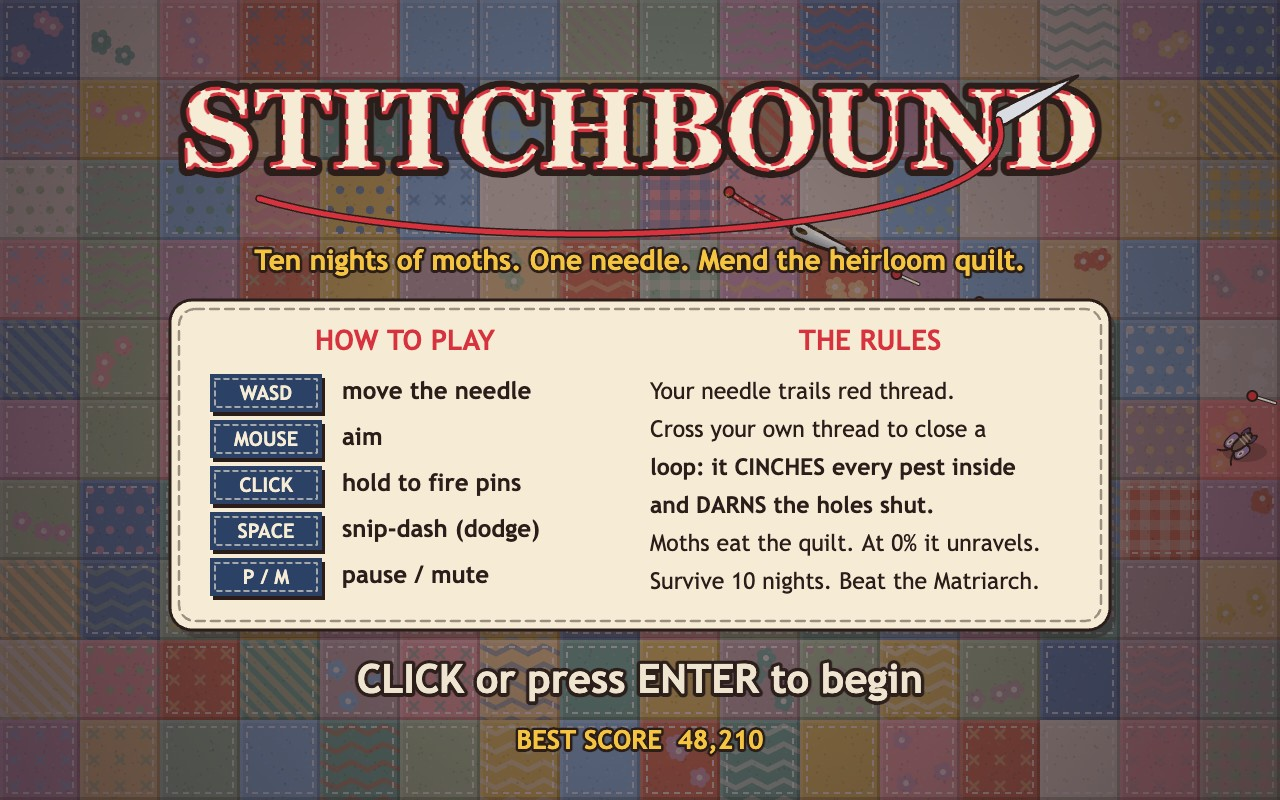
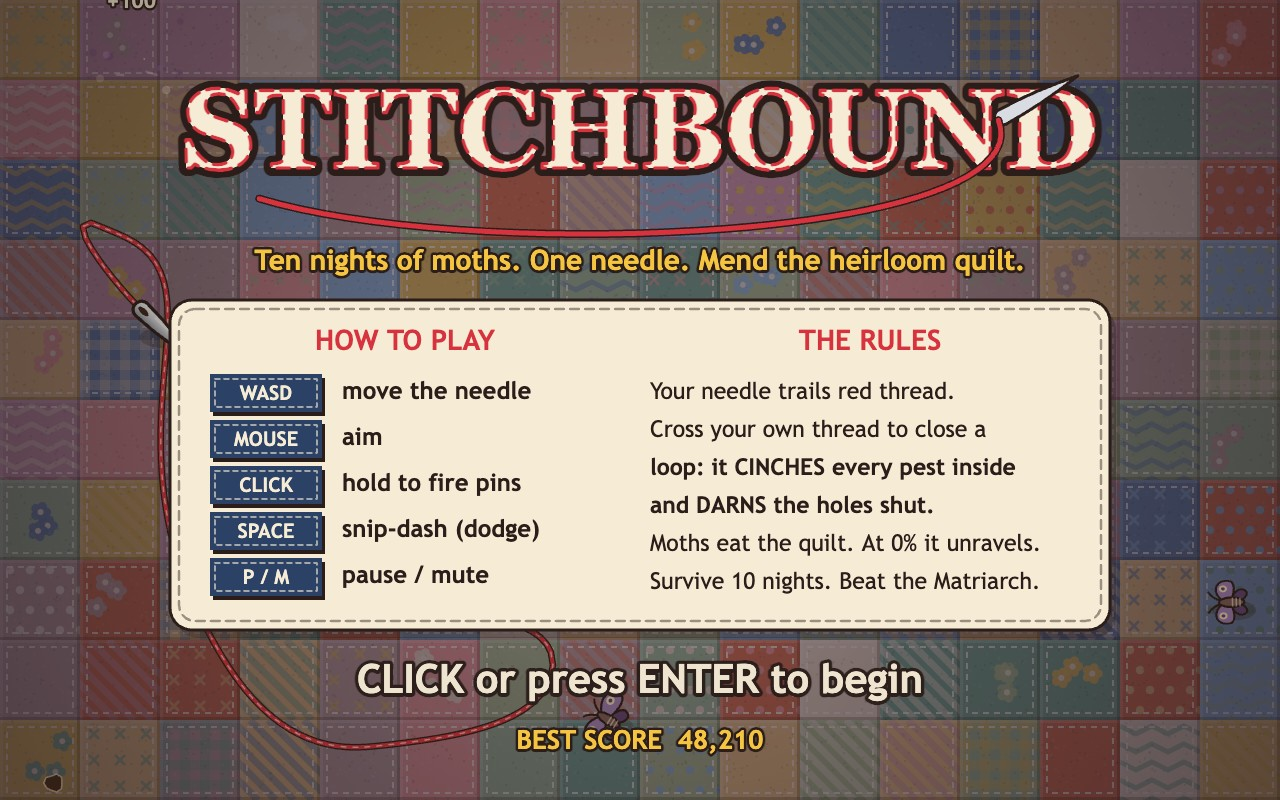
Longer thread and tighter guard ring for loops around the Matriarch; stacked score text; seed 4 screenshots

diff --git a/game/src/shots.js b/game/src/shots.js
@@ -53,8 +53,9 @@ function playToBestFrame(seed, score) {
 
 /** How much is going on: a fresh cinch, flying shots, creatures and particles. */
 function spectacle(run) {
-  const fresh = run.cinches.some((c) => c.age > 0.04 && c.age < 0.16);
-  return (fresh ? 60 : 0) + Math.min(60, run.shots.length) * 0.8 + run.enemies.length * 2 + Math.min(300, run.fx.particles.length) * 0.05 + run.pins.length * 0.3;
+  const fresh = run.cinches.filter((c) => c.age > 0.04 && c.age < 0.16);
+  const caught = fresh.reduce((n, c) => n + c.caught, 0);
+  return (fresh.length > 0 ? 60 + caught * 18 : 0) +Math.min(60, run.shots.length) * 0.8 + run.enemies.length * 2 + Math.min(300, run.fx.particles.length) * 0.05 + run.pins.length * 0.3;
 }
 
 function bossOnScreen(run, kind) {
@@ -80,7 +81,7 @@ export function stageShot(name, seed) {
         if (r.wave !== 10 || !bossOnScreen(r, 'matriarch')) return -1;
         const boss = r.enemies.find((e) => e.kind === 'matriarch');
         const p = r.player;
-        if (boss.flash > 0.5 || r.fx.flash > 0.02 || r.fx.floaters.length > 3) return -1;
+        if (boss.flash > 0.5 || r.fx.flash > 0.02 || r.fx.floaters.length > 7) return -1;
         if (p.x < 120 || p.x > 1160 || p.y < 190 || p.y > 660 || p.invuln > 0) return -1;
         const apart = Math.hypot(p.x - boss.x, p.y - boss.y);
         const offCentre = Math.hypot(boss.x - 640, boss.y - 380);

diff --git a/game/src/effects.js b/game/src/effects.js
@@ -36,7 +36,12 @@ export function ring(fx, x, y, color, radius = 60, life = 0.4, width = 6) {
 }
 
 export function floatText(fx, x, y, text, color = PALETTE.cream, size = 26) {
-  fx.floaters.push({ x, y, text, color, size, age: 0, life: 1.1 });
+  // Stack above any fresh text nearby so two numbers never run together.
+  let top = y;
+  for (const f of fx.floaters) {
+    if (f.age < 0.5 && Math.abs(f.x - x) < 90 && Math.abs(f.y - top) < size) top = f.y - size;
+  }
+  fx.floaters.push({ x, y: top, text, color, size, age: 0, life: 1.1 });
 }
 
 export function addShake(fx, amount) {

diff --git a/game/src/autopilot.js b/game/src/autopilot.js
@@ -18,7 +18,7 @@ function pickFocus(run) {
   const live = run.enemies.filter((e) => !e.dead && e.kind !== 'wyrmSegment' && e.x > 0 && e.y > 0 && e.x < VIEW.width && e.y < VIEW.height);
   if (live.length === 0) return null;
   const boss = live.find((e) => e.kind === 'matriarch' && !e.entering);
-  if (boss) return { x: boss.x, y: boss.y, radius: boss.r + 125 };
+  if (boss) return { x: boss.x, y: boss.y, radius: boss.r + 100 };
   const eaters = live.filter((e) => e.state === 'eat');
   const pool = eaters.length > 0 ? eaters : live;
   const p = run.player;

diff --git a/game/src/game.js b/game/src/game.js
@@ -99,7 +99,7 @@ export function cinchLoop(run, polygon) {
   run.stats.loops += 1;
   run.stats.mended += mended;
   run.stats.biggestLoop = Math.max(run.stats.biggestLoop, caught);
-  run.cinches.push({ polygon, centre, age: 0, life: 0.38 });
+  run.cinches.push({ polygon, centre, caught, age: 0, life: 0.38 });
   for (let i = 0; i < polygon.length; i += 3) {
     burst(fx, polygon[i].x, polygon[i].y, { count: 1, colors: [PALETTE.gold, PALETTE.threadLight], speed: 60, size: 6, kind: 'spark', life: 0.5 });
   }

diff --git a/game/src/enemies.js b/game/src/enemies.js
@@ -166,8 +166,8 @@ function updateGuardMoth(run, enemy, dt) {
     return;
   }
   enemy.orbit += dt * 1.3;
-  const tx = boss.x + Math.cos(enemy.orbit) * 150;
-  const ty = boss.y + Math.sin(enemy.orbit) * 115;
+  const tx = boss.x + Math.cos(enemy.orbit) * 132;
+  const ty = boss.y + Math.sin(enemy.orbit) * 100;
   enemy.x += (tx - enemy.x) * Math.min(1, dt * 4);
   enemy.y += (ty - enemy.y) * Math.min(1, dt * 4);
   enemy.angle = enemy.orbit + Math.PI / 2;

diff --git a/game/src/config.js b/game/src/config.js
@@ -31,7 +31,7 @@ export const PLAYER_BASE = {
   pinCount: 1,
   pierce: 0,
   bounce: 0,
-  threadLength: 980,
+  threadLength: 1120,
   loopDamage: 90,
   mendAmount: 0.55,
   dashSpeed: 980,
